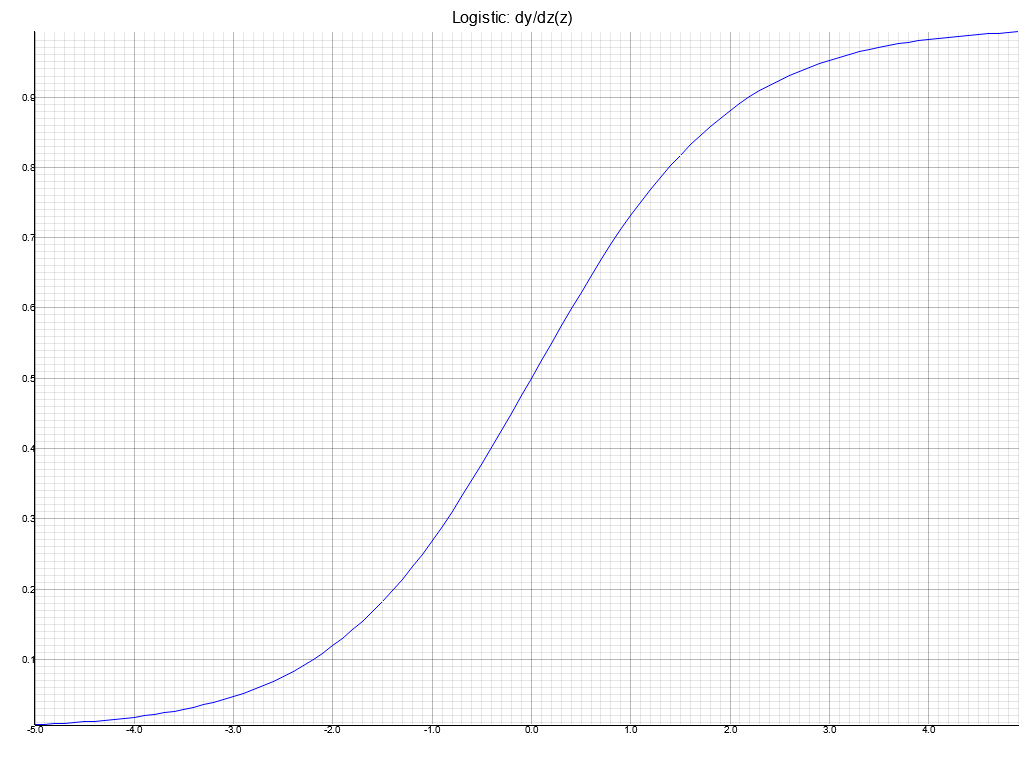
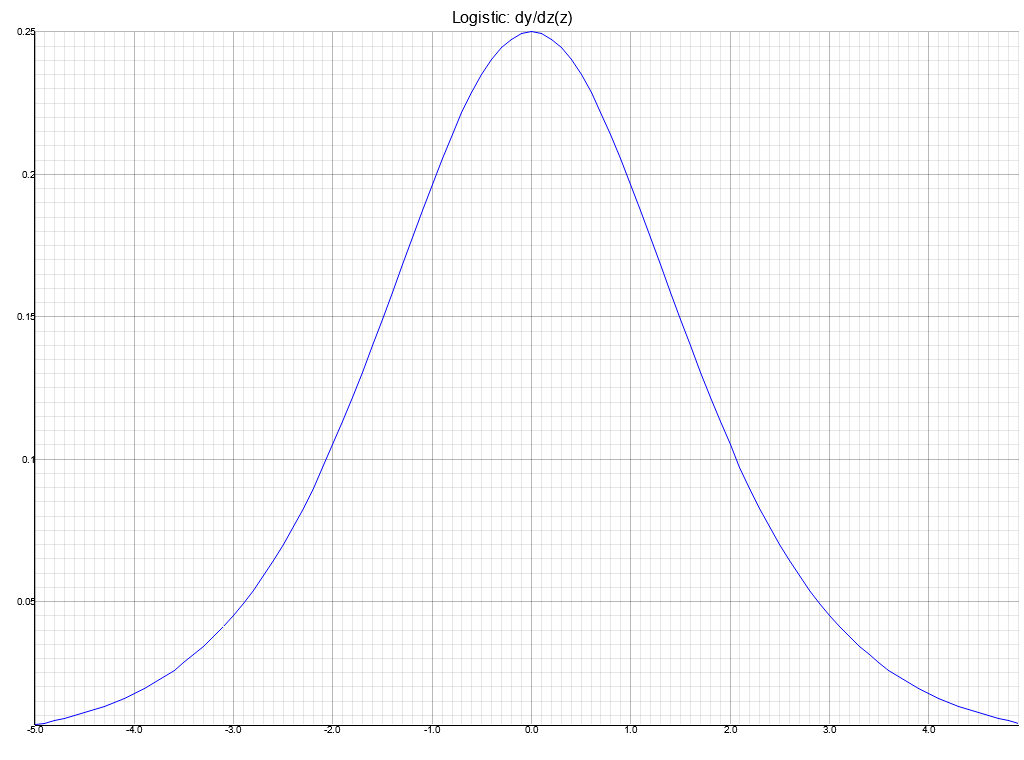
Plot functions

Changed region(s): [[0.0, 0.2724, 1.0, 0.9684], [0.0, 0.0303, 1.0, 0.2421]]

diff --git a/src/lib.rs b/src/lib.rs
@@ -23,6 +23,7 @@ mod tests
     use super::*;
 
     const N: usize = 100;
+    const MAX: f64 = 1000.0;
 
     pub fn plot_bf<BF, R, const K: usize>(bf: BF, z: R, k: [f64; K])
     where
@@ -30,8 +31,8 @@ mod tests
         R: LinspaceArray<f64, N>
     {
         let z = z.linspace_array();
-        let y = z.map2(|z| bf.bf_y(z, k));
-        let dydz = z.map2(|z| bf.bf_dydz(z, k).0);
+        let y = z.map2(|z| bf.bf_y(z, k).min(MAX).max(-MAX));
+        let dydz = z.map2(|z| bf.bf_dydz(z, k).0.min(MAX).max(-MAX));
 
         let bf_name = format!("{:?}", bf);
 
@@ -52,7 +53,7 @@ mod tests
 
         crate::plot::plot_curve(&format!("{}: y(z)", bf_name), &format!("plot/af_{}_y.png", &file_name), z, y)
             .expect("Failed plot");
-        crate::plot::plot_curve(&format!("{}: dy/dz(z)", bf_name), &format!("plot/af_{}_dydz.png", &file_name), z, y)
+        crate::plot::plot_curve(&format!("{}: dy/dz(z)", bf_name), &format!("plot/af_{}_dydz.png", &file_name), z, dydz)
             .expect("Failed plot");
     }
 }

diff --git a/src/activation_function/sigmoid/smoothstep.rs b/src/activation_function/sigmoid/smoothstep.rs
@@ -6,10 +6,20 @@ use super::*;
 
 use statrs::function::factorial;
 
-#[derive(Clone, Copy)]
+#[derive(Clone, Copy, Debug)]
 pub struct Smoothstep
 {
     pub n: u16
+}
+
+impl Smoothstep
+{
+    pub fn new(n: u16) -> Self
+    {
+        Self {
+            n
+        }
+    }
 }
 
 impl<F> BoundingFunction<F> for Smoothstep
@@ -54,3 +64,16 @@ where
 }
 
 impl_bf!(Smoothstep; 0 where F: MulAssign + Default);
+
+#[cfg(test)]
+mod test
+{
+    use super::Smoothstep as BF;
+    use crate::tests;
+
+    #[test]
+    fn test()
+    {
+        tests::plot_bf(BF::new(2), -5.0..5.0, [])
+    }
+}

diff --git a/src/activation_function/sigmoid/tanh_lecun.rs b/src/activation_function/sigmoid/tanh_lecun.rs
@@ -3,7 +3,7 @@ use super::*;
 const SCALE: f64 = 1.7159;
 const SENS: f64 = 2.0/3.0;
 
-#[derive(Clone, Copy)]
+#[derive(Clone, Copy, Debug)]
 pub struct TanhLeCun;
 
 impl<F> BoundingFunction<F> for TanhLeCun
@@ -25,3 +25,16 @@ where
 }
 
 impl_bf!(TanhLeCun);
+
+#[cfg(test)]
+mod test
+{
+    use super::TanhLeCun as BF;
+    use crate::tests;
+
+    #[test]
+    fn test()
+    {
+        tests::plot_bf(BF, -5.0..5.0, [])
+    }
+}

diff --git a/src/activation_function/sigmoid/smooth_interpolation.rs b/src/activation_function/sigmoid/smooth_interpolation.rs
@@ -1,6 +1,6 @@
 use super::*;
 
-#[derive(Clone, Copy)]
+#[derive(Clone, Copy, Debug)]
 pub struct SmoothInterpolation;
 
 impl<F> BoundingFunction<F, 1> for SmoothInterpolation
@@ -44,3 +44,16 @@ where
 }
 
 impl_bf!(SmoothInterpolation; 1);
+
+#[cfg(test)]
+mod test
+{
+    use super::SmoothInterpolation as BF;
+    use crate::tests;
+
+    #[test]
+    fn test()
+    {
+        tests::plot_bf(BF, -5.0..5.0, [1.0])
+    }
+}

diff --git a/src/activation_function/sigmoid/erf.rs b/src/activation_function/sigmoid/erf.rs
@@ -2,7 +2,7 @@ use std::{f64::consts::FRAC_2_SQRT_PI, f32::consts::FRAC_PI_4};
 
 use super::*;
 
-#[derive(Clone, Copy)]
+#[derive(Clone, Copy, Debug)]
 pub struct Erf;
 
 impl<F> BoundingFunction<F> for Erf
@@ -23,3 +23,16 @@ where
 }
 
 impl_bf!(Erf);
+
+#[cfg(test)]
+mod test
+{
+    use super::Erf as BF;
+    use crate::tests;
+
+    #[test]
+    fn test()
+    {
+        tests::plot_bf(BF, -5.0..5.0, [])
+    }
+}

diff --git a/src/activation_function/sigmoid/atan.rs b/src/activation_function/sigmoid/atan.rs
@@ -2,7 +2,7 @@ use std::f64::consts::{FRAC_PI_2, FRAC_2_PI, PI};
 
 use super::*;
 
-#[derive(Clone, Copy)]
+#[derive(Clone, Copy, Debug)]
 pub struct Atan;
 
 impl<F> BoundingFunction<F> for Atan
@@ -23,3 +23,16 @@ where
 }
 
 impl_bf!(Atan);
+
+#[cfg(test)]
+mod test
+{
+    use super::Atan as BF;
+    use crate::tests;
+
+    #[test]
+    fn test()
+    {
+        tests::plot_bf(BF, -5.0..5.0, [])
+    }
+}

diff --git a/src/activation_function/sigmoid/gd.rs b/src/activation_function/sigmoid/gd.rs
@@ -4,7 +4,7 @@ use super::*;
 
 const FRAC_4_PI: f64 = 1.2732395447351626861510701069801;
 
-#[derive(Clone, Copy)]
+#[derive(Clone, Copy, Debug)]
 pub struct Gd;
 
 impl<F> BoundingFunction<F> for Gd
@@ -25,3 +25,16 @@ where
 }
 
 impl_bf!(Gd);
+
+#[cfg(test)]
+mod test
+{
+    use super::Gd as BF;
+    use crate::tests;
+
+    #[test]
+    fn test()
+    {
+        tests::plot_bf(BF, -5.0..5.0, [])
+    }
+}

diff --git a/src/activation_function/sigmoid/algebraic_sigmoid.rs b/src/activation_function/sigmoid/algebraic_sigmoid.rs
@@ -1,6 +1,6 @@
 use super::*;
 
-#[derive(Clone, Copy)]
+#[derive(Clone, Copy, Debug)]
 pub struct AlgebraicSigmoid;
 
 impl<F> BoundingFunction<F, 1> for AlgebraicSigmoid
@@ -45,3 +45,16 @@ where
 }
 
 impl_bf!(AlgebraicSigmoid; 1);
+
+#[cfg(test)]
+mod test
+{
+    use super::ReLUN as BF;
+    use crate::tests;
+
+    #[test]
+    fn test()
+    {
+        tests::plot_bf(BF, -5.0..5.0, [1.0])
+    }
+}

diff --git a/src/activation_function/sigmoid/probit.rs b/src/activation_function/sigmoid/probit.rs
@@ -4,7 +4,7 @@ use statrs::consts::SQRT_2PI;
 
 use super::*;
 
-#[derive(Clone, Copy)]
+#[derive(Clone, Copy, Debug)]
 pub struct Probit;
 
 impl<F> BoundingFunction<F> for Probit
@@ -44,3 +44,16 @@ where
 }
 
 impl_bf!(Probit);
+
+#[cfg(test)]
+mod test
+{
+    use super::Probit as BF;
+    use crate::tests;
+
+    #[test]
+    fn test()
+    {
+        tests::plot_bf(BF, -5.0..5.0, [])
+    }
+}

diff --git a/src/activation_function/sigmoid/plogistic.rs b/src/activation_function/sigmoid/plogistic.rs
@@ -1,6 +1,6 @@
 use super::*;
 
-#[derive(Clone, Copy)]
+#[derive(Clone, Copy, Debug)]
 pub struct PLogistic;
 
 impl<F> BoundingFunction<F, 1> for PLogistic
@@ -37,3 +37,16 @@ where
 }
 
 impl_bf!(PLogistic; 1);
+
+#[cfg(test)]
+mod test
+{
+    use super::PLogistic as BF;
+    use crate::tests;
+
+    #[test]
+    fn test()
+    {
+        tests::plot_bf(BF, -5.0..5.0, [1.0])
+    }
+}

diff --git a/src/activation_function/sigmoid/softsign.rs b/src/activation_function/sigmoid/softsign.rs
@@ -1,6 +1,6 @@
 use super::*;
 
-#[derive(Clone, Copy)]
+#[derive(Clone, Copy, Debug)]
 pub struct Softsign;
 
 impl<F> BoundingFunction<F> for Softsign
@@ -22,3 +22,16 @@ where
 }
 
 impl_bf!(Softsign);
+
+#[cfg(test)]
+mod test
+{
+    use super::Softsign as BF;
+    use crate::tests;
+
+    #[test]
+    fn test()
+    {
+        tests::plot_bf(BF, -5.0..5.0, [])
+    }
+}

diff --git a/src/activation_function/sigmoid/relun.rs b/src/activation_function/sigmoid/relun.rs
@@ -1,6 +1,6 @@
 use super::*;
 
-#[derive(Clone, Copy)]
+#[derive(Clone, Copy, Debug)]
 pub struct ReLUN;
 
 impl<F> BoundingFunction<F, 1> for ReLUN
@@ -56,3 +56,16 @@ where
 }
 
 impl_bf!(ReLUN; 1);
+
+#[cfg(test)]
+mod test
+{
+    use super::ReLUN as BF;
+    use crate::tests;
+
+    #[test]
+    fn test()
+    {
+        tests::plot_bf(BF, -5.0..5.0, [0.1])
+    }
+}
